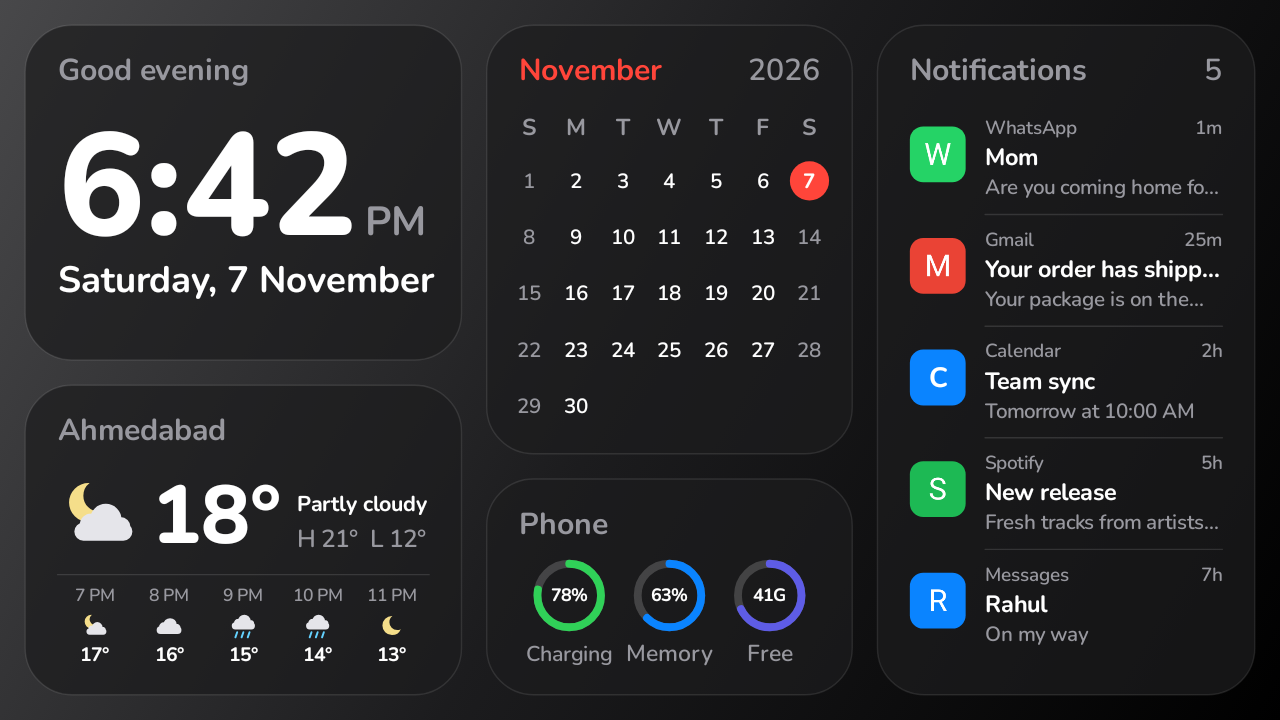
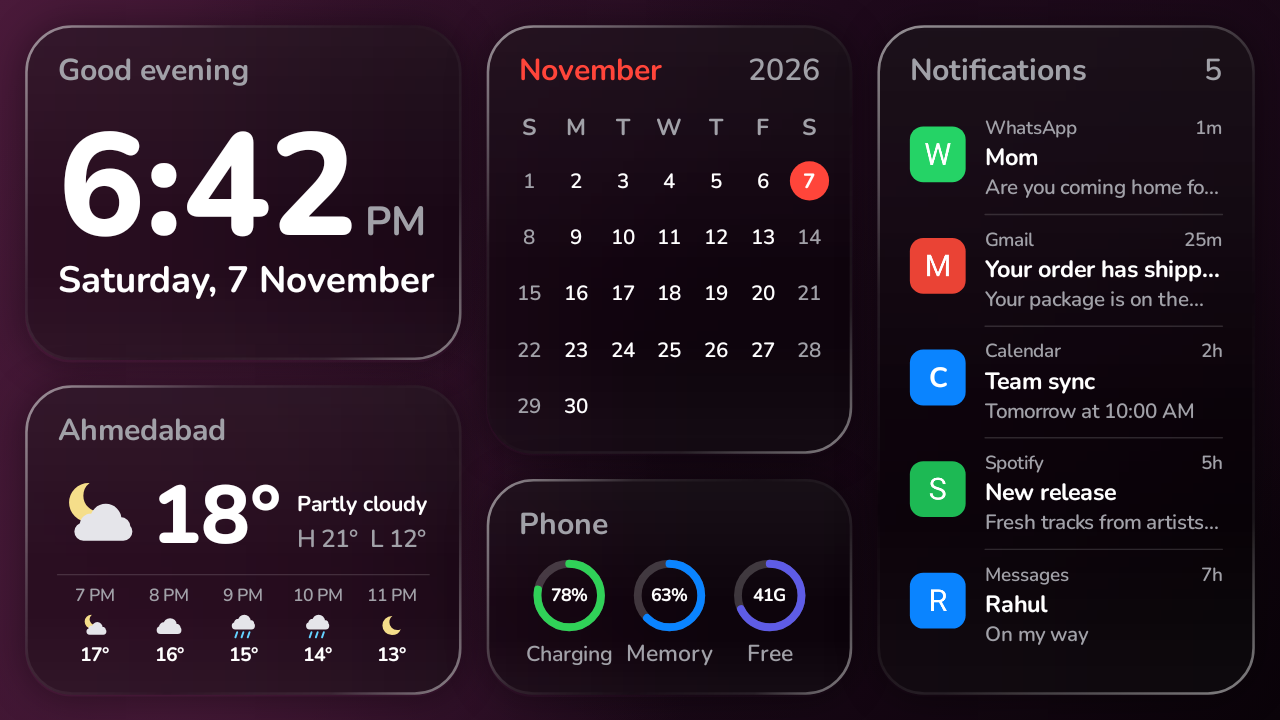
Add liquid-glass cards
Each card now shows a blurred, slightly magnified copy of the wallpaper
behind it, with a tint, a top sheen, a bright rim and a soft outer shadow.
Wallpapers gain soft colour glows so the glass has something to refract.
The wallpaper and its blurred copy are cached and only rebuilt when the
wallpaper, theme or screen size changes.

README: how to install past Google Play Protect.

Claude-Session: https://claude.ai/code/session_01TgwYNhGuwcwSE7YizXTh1N

diff --git a/app/src/main/java/com/sapremdonda/infotainme/LiquidGlass.java b/app/src/main/java/com/sapremdonda/infotainme/LiquidGlass.java
@@ -1,0 +1,196 @@
+package com.sapremdonda.infotainme;
+
+import android.graphics.Bitmap;
+import android.graphics.BitmapShader;
+import android.graphics.BlurMaskFilter;
+import android.graphics.Canvas;
+import android.graphics.Color;
+import android.graphics.LinearGradient;
+import android.graphics.Matrix;
+import android.graphics.Paint;
+import android.graphics.RadialGradient;
+import android.graphics.RectF;
+import android.graphics.Shader;
+
+/**
+ * Liquid-glass look: the wallpaper (with soft colour glows) is drawn once, and a blurred copy is
+ * shown through each card, slightly magnified like a lens, then tinted with a sheen and a bright rim.
+ * Bitmaps are rebuilt only when the wallpaper, theme or screen size changes.
+ */
+final class LiquidGlass {
+
+    /** The blurred copy is this many times smaller than the screen. */
+    private static final int BLUR_SCALE = 10;
+    private static final float LENS_ZOOM = 1.06f;
+
+    private final Paint plain = new Paint(Paint.FILTER_BITMAP_FLAG | Paint.DITHER_FLAG);
+    private final Paint glass = new Paint(Paint.ANTI_ALIAS_FLAG | Paint.FILTER_BITMAP_FLAG);
+    private final Paint fill = new Paint(Paint.ANTI_ALIAS_FLAG);
+    private final Paint rim = new Paint(Paint.ANTI_ALIAS_FLAG);
+    private final Paint shadow = new Paint(Paint.ANTI_ALIAS_FLAG);
+    private final Matrix matrix = new Matrix();
+
+    private Bitmap wallpaper;
+    private Bitmap blurred;
+    private BitmapShader blurShader;
+    private int[] builtFor;
+    private int builtW;
+    private int builtH;
+    private float shadowBlur = -1f;
+
+    LiquidGlass() {
+        rim.setStyle(Paint.Style.STROKE);
+    }
+
+    /** Draws the wallpaper over the whole canvas. */
+    void drawWallpaper(Canvas c, int[] colors) {
+        int w = c.getWidth();
+        int h = c.getHeight();
+        if (w <= 0 || h <= 0) {
+            return;
+        }
+        if (wallpaper == null || colors != builtFor || w != builtW || h != builtH) {
+            build(w, h, colors);
+        }
+        c.drawBitmap(wallpaper, 0f, 0f, plain);
+    }
+
+    /** Draws one glass card. {@code u} is the layout unit used for edge and shadow sizes. */
+    void drawCard(Canvas c, RectF r, float radius, float u, Palette p) {
+        // Soft shadow, outside the card only so it doesn't show through the glass.
+        float blur = u * 0.045f;
+        if (blur != shadowBlur && blur > 0f) {
+            shadow.setMaskFilter(new BlurMaskFilter(blur, BlurMaskFilter.Blur.OUTER));
+            shadowBlur = blur;
+        }
+        shadow.setColor(p.shadow);
+        c.save();
+        c.translate(0f, u * 0.003f);
+        c.drawRoundRect(r, radius, radius, shadow);
+        c.restore();
+
+        // Blurred wallpaper, magnified a little around the card's centre.
+        if (blurShader != null) {
+            matrix.setScale(BLUR_SCALE, BLUR_SCALE);
+            matrix.postScale(LENS_ZOOM, LENS_ZOOM, r.centerX(), r.centerY());
+            blurShader.setLocalMatrix(matrix);
+            glass.setShader(blurShader);
+            c.drawRoundRect(r, radius, radius, glass);
+        }
+
+        // Tint, then a sheen fading down from the top edge.
+        fill.setShader(null);
+        fill.setColor(p.glassTint);
+        c.drawRoundRect(r, radius, radius, fill);
+        fill.setShader(new LinearGradient(0f, r.top, 0f, r.top + r.height() * 0.55f,
+                p.glassSheen, Color.TRANSPARENT, Shader.TileMode.CLAMP));
+        c.drawRoundRect(r, radius, radius, fill);
+        fill.setShader(new LinearGradient(0f, r.bottom, 0f, r.bottom - r.height() * 0.25f,
+                p.innerGlow, Color.TRANSPARENT, Shader.TileMode.CLAMP));
+        c.drawRoundRect(r, radius, radius, fill);
+        fill.setShader(null);
+
+        // Rim: bright where light hits (top-left), fading, with a softer catch-light bottom-right.
+        float rimW = Math.max(1f, u * 0.0035f);
+        float half = rimW / 2f;
+        RectF edge = new RectF(r.left + half, r.top + half, r.right - half, r.bottom - half);
+        rim.setStrokeWidth(rimW);
+        rim.setShader(new LinearGradient(r.left, r.top, r.right, r.bottom,
+                new int[]{p.rimBright, p.rimFaint, Color.TRANSPARENT, p.rimFaint, p.rimBright & 0x80FFFFFF},
+                new float[]{0f, 0.3f, 0.55f, 0.8f, 1f}, Shader.TileMode.CLAMP));
+        c.drawRoundRect(edge, radius - half, radius - half, rim);
+        rim.setShader(null);
+    }
+
+    private void build(int w, int h, int[] colors) {
+        if (wallpaper != null) {
+            wallpaper.recycle();
+        }
+        if (blurred != null) {
+            blurred.recycle();
+        }
+        wallpaper = Bitmap.createBitmap(w, h, Bitmap.Config.ARGB_8888);
+        Canvas wc = new Canvas(wallpaper);
+        Paint p = new Paint(Paint.ANTI_ALIAS_FLAG | Paint.DITHER_FLAG);
+        p.setShader(new LinearGradient(0, 0, w, h, colors, null, Shader.TileMode.CLAMP));
+        wc.drawRect(0, 0, w, h, p);
+
+        // Soft colour glows give the glass something to refract.
+        float m = Math.max(w, h);
+        int last = colors[colors.length - 1];
+        int mid = colors[colors.length / 2];
+        orb(wc, p, w * 0.12f, h * 0.88f, m * 0.42f, colors[0], 0.85f);
+        orb(wc, p, w * 0.86f, h * 0.12f, m * 0.38f, mid, 0.75f);
+        orb(wc, p, w * 0.55f, h * 0.6f, m * 0.25f, last, 0.35f);
+        orb(wc, p, w * 0.32f, h * 0.18f, m * 0.2f, mid, 0.4f);
+
+        int bw = Math.max(1, w / BLUR_SCALE);
+        int bh = Math.max(1, h / BLUR_SCALE);
+        blurred = Bitmap.createScaledBitmap(wallpaper, bw, bh, true);
+        boxBlur(blurred, 4, 3);
+        blurShader = new BitmapShader(blurred, Shader.TileMode.CLAMP, Shader.TileMode.CLAMP);
+
+        builtFor = colors;
+        builtW = w;
+        builtH = h;
+    }
+
+    private static void orb(Canvas c, Paint p, float x, float y, float radius, int color, float alpha) {
+        int a = Math.round(alpha * 255f);
+        int center = (color & 0x00FFFFFF) | (a << 24);
+        p.setShader(new RadialGradient(x, y, radius, new int[]{center, color & 0x00FFFFFF},
+                null, Shader.TileMode.CLAMP));
+        c.drawCircle(x, y, radius, p);
+    }
+
+    /** Repeated box blur on a small bitmap; three passes look close to a Gaussian blur. */
+    private static void boxBlur(Bitmap b, int radius, int passes) {
+        int w = b.getWidth();
+        int h = b.getHeight();
+        int[] px = new int[w * h];
+        int[] tmp = new int[w * h];
+        b.getPixels(px, 0, w, 0, 0, w, h);
+        for (int i = 0; i < passes; i++) {
+            blurLine(px, tmp, w, h, radius, true);
+            blurLine(tmp, px, w, h, radius, false);
+        }
+        b.setPixels(px, 0, w, 0, 0, w, h);
+    }
+
+    private static void blurLine(int[] in, int[] out, int w, int h, int r, boolean horizontal) {
+        int lines = horizontal ? h : w;
+        int len = horizontal ? w : h;
+        int div = 2 * r + 1;
+        for (int line = 0; line < lines; line++) {
+            int sa = 0;
+            int sr = 0;
+            int sg = 0;
+            int sb = 0;
+            for (int k = -r; k <= r; k++) {
+                int c = in[index(line, clamp(k, len), w, horizontal)];
+                sa += c >>> 24;
+                sr += (c >> 16) & 0xFF;
+                sg += (c >> 8) & 0xFF;
+                sb += c & 0xFF;
+            }
+            for (int i = 0; i < len; i++) {
+                out[index(line, i, w, horizontal)] =
+                        ((sa / div) << 24) | ((sr / div) << 16) | ((sg / div) << 8) | (sb / div);
+                int add = in[index(line, clamp(i + r + 1, len), w, horizontal)];
+                int sub = in[index(line, clamp(i - r, len), w, horizontal)];
+                sa += (add >>> 24) - (sub >>> 24);
+                sr += ((add >> 16) & 0xFF) - ((sub >> 16) & 0xFF);
+                sg += ((add >> 8) & 0xFF) - ((sub >> 8) & 0xFF);
+                sb += (add & 0xFF) - (sub & 0xFF);
+            }
+        }
+    }
+
+    private static int index(int line, int i, int w, boolean horizontal) {
+        return horizontal ? line * w + i : i * w + line;
+    }
+
+    private static int clamp(int i, int len) {
+        return i < 0 ? 0 : (i >= len ? len - 1 : i);
+    }
+}

diff --git a/app/src/main/java/com/sapremdonda/infotainme/DashboardRenderer.java b/app/src/main/java/com/sapremdonda/infotainme/DashboardRenderer.java
@@ -4,7 +4,6 @@ import android.content.Context;
 import android.graphics.Bitmap;
 import android.graphics.BitmapShader;
 import android.graphics.Canvas;
-import android.graphics.LinearGradient;
 import android.graphics.Matrix;
 import android.graphics.Paint;
 import android.graphics.Rect;
@@ -32,19 +31,13 @@ public final class DashboardRenderer {
 
     private final Fonts fonts;
     private final WeatherIcons weatherIcons = new WeatherIcons();
+    private final LiquidGlass glass = new LiquidGlass();
     private final Paint fill = new Paint(Paint.ANTI_ALIAS_FLAG);
     private final Paint stroke = new Paint(Paint.ANTI_ALIAS_FLAG);
-    private final Paint wallpaperPaint = new Paint();
     private final Paint iconPaint = new Paint(Paint.ANTI_ALIAS_FLAG | Paint.FILTER_BITMAP_FLAG);
     private final TextPaint text = new TextPaint(Paint.ANTI_ALIAS_FLAG);
     private final Calendar cal = Calendar.getInstance();
     private final Matrix matrix = new Matrix();
-
-    // Wallpaper gradient is rebuilt only when something changes.
-    private Shader wallShader;
-    private int wallW;
-    private int wallH;
-    private int[] wallColors;
 
     // Per-frame values.
     private Palette pal;
@@ -57,14 +50,13 @@ public final class DashboardRenderer {
         fonts = Fonts.get(context);
         stroke.setStyle(Paint.Style.STROKE);
         stroke.setStrokeCap(Paint.Cap.ROUND);
-        wallpaperPaint.setDither(true);
     }
 
     /** Draws the wallpaper over the whole canvas and the cards inside {@code area}. */
     public void draw(Canvas c, Rect area, DashboardState s) {
         pal = s.dark ? Palette.DARK : Palette.LIGHT;
         cal.setTimeInMillis(s.now);
-        drawWallpaper(c, s.wallpaper.colors(s.dark));
+        glass.drawWallpaper(c, s.wallpaper.colors(s.dark));
 
         float w = area.width();
         float h = area.height();
@@ -119,29 +111,8 @@ public final class DashboardRenderer {
 
     // ------------------------------------------------------------ background
 
-    private void drawWallpaper(Canvas c, int[] colors) {
-        int cw = c.getWidth();
-        int ch = c.getHeight();
-        if (wallShader == null || cw != wallW || ch != wallH || colors != wallColors) {
-            wallShader = new LinearGradient(0, 0, cw, ch, colors, null, Shader.TileMode.CLAMP);
-            wallW = cw;
-            wallH = ch;
-            wallColors = colors;
-        }
-        wallpaperPaint.setShader(wallShader);
-        c.drawRect(0, 0, cw, ch, wallpaperPaint);
-    }
-
     private void drawCard(Canvas c, RectF r) {
-        fill.setColor(pal.card);
-        if (pal.cardShadow != 0) {
-            fill.setShadowLayer(u * 0.025f, 0f, u * 0.006f, pal.cardShadow);
-        }
-        c.drawRoundRect(r, radius, radius, fill);
-        fill.clearShadowLayer();
-        stroke.setColor(pal.cardEdge);
-        stroke.setStrokeWidth(Math.max(1f, u * 0.002f));
-        c.drawRoundRect(r, radius, radius, stroke);
+        glass.drawCard(c, r, radius, u, pal);
     }
 
     /** Draws a card's small heading and returns the y where content can start. */

diff --git a/app/src/main/java/com/sapremdonda/infotainme/Palette.java b/app/src/main/java/com/sapremdonda/infotainme/Palette.java
@@ -1,23 +1,30 @@
 package com.sapremdonda.infotainme;
 
-/** Colours for light and dark mode. Cards are slightly see-through so the wallpaper shows. */
+/** Colours for light and dark mode, including the liquid-glass card layers. */
 final class Palette {
 
     static final Palette LIGHT = new Palette(
-            0xD9FFFFFF, 0x80FFFFFF, 0x1F000000,
-            0xFF1C1C1E, 0xFF636366, 0x1A000000, 0x14000000,
+            // glass: tint, sheen, rim (bright, faint), inner glow, shadow
+            0x9EFFFFFF, 0x59FFFFFF, 0xF2FFFFFF, 0x26FFFFFF, 0x33FFFFFF, 0x1F000000,
+            // text and lines
+            0xFF1C1C1E, 0xFF48484D, 0x24000000, 0x1A000000,
+            // accents
             0xFF007AFF, 0xFF34C759, 0xFFFF3B30, 0xFF5856D6,
-            0xFFFFB800, 0xFFA9B4C2, 0xFF0A84FF, 0xFFF4C542);
+            // weather
+            0xFFFFB800, 0xFF9AA6B5, 0xFF0A84FF, 0xFFF4C542);
 
     static final Palette DARK = new Palette(
-            0xB81C1C1E, 0x1AFFFFFF, 0,
-            0xFFFFFFFF, 0xFF98989F, 0x2EFFFFFF, 0x1FFFFFFF,
+            0x5C000000, 0x1FFFFFFF, 0x8CFFFFFF, 0x14FFFFFF, 0x14FFFFFF, 0x66000000,
+            0xFFFFFFFF, 0xFFA1A1A8, 0x33FFFFFF, 0x24FFFFFF,
             0xFF0A84FF, 0xFF30D158, 0xFFFF453A, 0xFF5E5CE6,
             0xFFFFD60A, 0xFFE5E5EA, 0xFF64D2FF, 0xFFF5DE8A);
 
-    final int card;
-    final int cardEdge;
-    final int cardShadow;
+    final int glassTint;
+    final int glassSheen;
+    final int rimBright;
+    final int rimFaint;
+    final int innerGlow;
+    final int shadow;
     final int primary;
     final int secondary;
     final int track;
@@ -31,12 +38,15 @@ final class Palette {
     final int rain;
     final int moon;
 
-    private Palette(int card, int cardEdge, int cardShadow, int primary, int secondary, int track,
-                    int separator, int accent, int green, int red, int indigo, int sun, int cloud,
-                    int rain, int moon) {
-        this.card = card;
-        this.cardEdge = cardEdge;
-        this.cardShadow = cardShadow;
+    private Palette(int glassTint, int glassSheen, int rimBright, int rimFaint, int innerGlow,
+                    int shadow, int primary, int secondary, int track, int separator, int accent,
+                    int green, int red, int indigo, int sun, int cloud, int rain, int moon) {
+        this.glassTint = glassTint;
+        this.glassSheen = glassSheen;
+        this.rimBright = rimBright;
+        this.rimFaint = rimFaint;
+        this.innerGlow = innerGlow;
+        this.shadow = shadow;
         this.primary = primary;
         this.secondary = secondary;
         this.track = track;

diff --git a/README.md b/README.md
@@ -1,8 +1,8 @@
 # Infotain Me
 
 A personal Android Auto dashboard. Open it on the car screen to see the time, weather, a
-month calendar, your phone's notifications and its battery, memory and storage, on a smooth
-gradient wallpaper. Sideloaded only, never published to the Play Store.
+month calendar, your phone's notifications and its battery, memory and storage, on liquid-glass
+cards over a smooth gradient wallpaper. Sideloaded only, never published to the Play Store.
 
 | Headlights off | Headlights on |
 | --- | --- |
@@ -24,6 +24,9 @@ gradient wallpaper. Sideloaded only, never published to the Play Store.
 | Temperature | Automatic (from your region), °C, °F |
 | Location | Needed for weather |
 | Notification access | Needed to show notifications on the car screen |
+
+The cards use a liquid-glass look: each shows a blurred, slightly magnified copy of the
+wallpaper behind it, with a tint, a sheen across the top and a bright rim.
 
 The app registers with Android Auto as a navigation app, which gives it a blank canvas to draw
 on. Google wouldn't allow that on the Play Store, but it's fine for a sideloaded personal app.
@@ -54,6 +57,21 @@ Every push to `main` builds the APK and publishes a release:
 3. Open **Infotain Me** on the phone:
    - Allow location when asked.
    - Tap **Turn on notification access**.
+
+### If Google Play Protect blocks the install
+
+Play Protect warns about any APK from a developer it doesn't know. This is your own app, so:
+
+1. On the warning, tap **More details** (or the small arrow), then **Install anyway**.
+2. If there's no such option, turn Play Protect off for a moment: open the **Play Store**, tap
+   your profile picture, then **Play Protect**, then the ⚙ gear. Turn off
+   **Scan apps with Play Protect**, install the APK, then turn it back on.
+3. If you're asked to send the app for scanning, either answer is fine.
+
+Another option is installing from a computer with USB debugging, which skips the prompt:
+`adb install -r infotain-me-0.1.N.apk`.
+
+### Notification access
 
 On Android 13 and later, the notification access switch may be greyed out for apps installed
 from an APK. Open **App info** for Infotain Me, tap **⋮**, choose **Allow restricted settings**,
